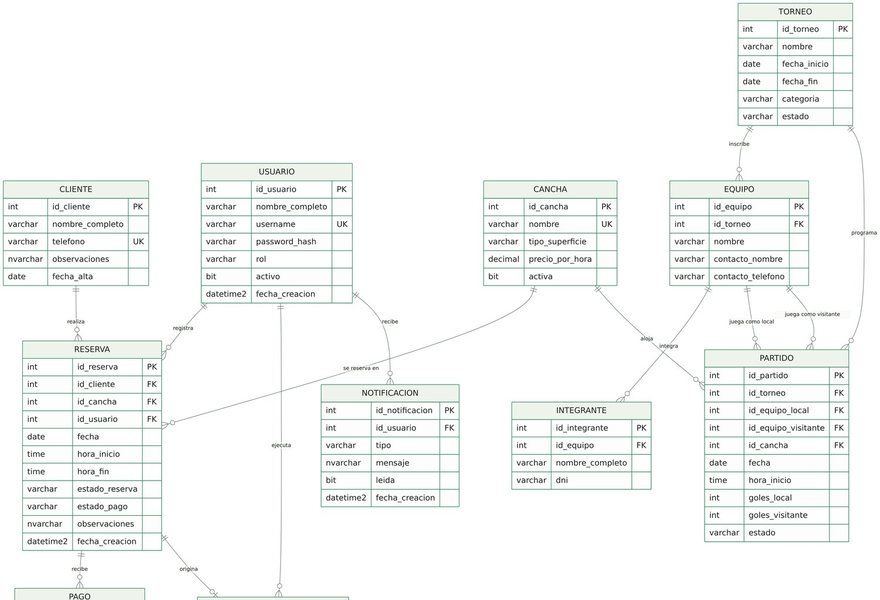
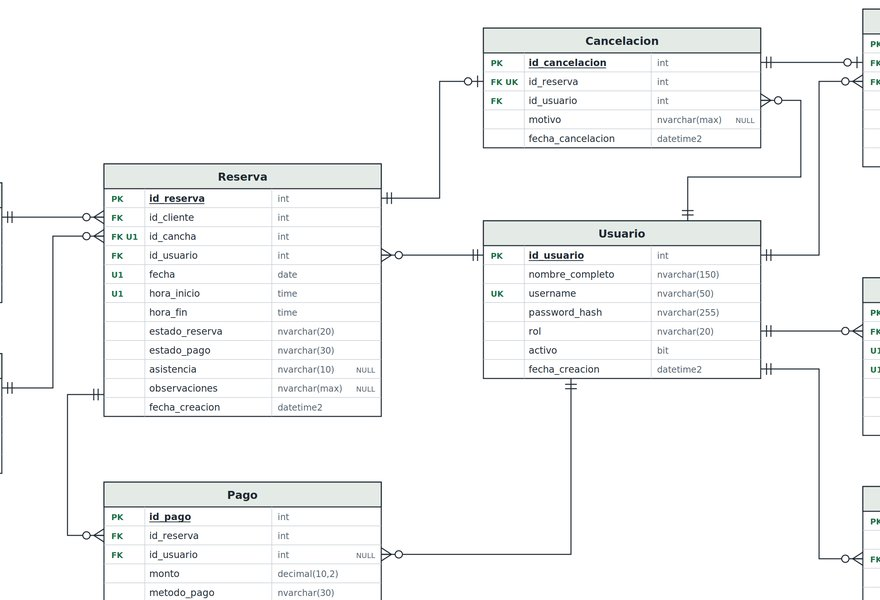
Diagramas de Sports Complex actualizados y CV corregido
- Diagramas nuevos generados desde el modelo real (14 tablas, auditoria y parametros)
- Cifras del proyecto al dia: 55 endpoints, 14 tablas, 54 pruebas, 18 servicios
- CV en espanol revisado: carrera en curso (2026), redaccion y datos actualizados

Claude-Session: https://claude.ai/code/session_013ZNZp2hZJEv5Z7bci25UH3

diff --git a/index.html b/index.html
@@ -323,7 +323,7 @@ try{var t=localStorage.getItem('tema');if(t&&t!=='sistema')document.documentElem
           <div class="ficha-cuerpo">
             <span class="tag tag-g">Sistema completo</span>
             <h3><a href="#proyecto">Sports Complex Admin</a></h3>
-            <p>48 endpoints REST, 12 tablas y 24 pruebas. La integridad de las reservas está garantizada en el motor de base de datos, no en el formulario.</p>
+            <p>55 endpoints REST, 14 tablas y 54 pruebas. La integridad de las reservas está garantizada en el motor de base de datos, no en el formulario.</p>
             <p class="ficha-stack">ASP.NET Core 8 · React · SQL Server</p>
           </div>
         </article>
@@ -382,10 +382,10 @@ try{var t=localStorage.getItem('tema');if(t&&t!=='sistema')document.documentElem
     </p>
 
     <div class="stats" style="margin-top:0;margin-bottom:44px">
-      <div class="stat"><div class="stat-n">~9.700</div><div class="stat-l">líneas de código</div></div>
-      <div class="stat"><div class="stat-n">48</div><div class="stat-l">endpoints REST</div></div>
-      <div class="stat"><div class="stat-n">12</div><div class="stat-l">tablas relacionales</div></div>
-      <div class="stat"><div class="stat-n">24</div><div class="stat-l">pruebas unitarias</div></div>
+      <div class="stat"><div class="stat-n">~11.700</div><div class="stat-l">líneas de código</div></div>
+      <div class="stat"><div class="stat-n">55</div><div class="stat-l">endpoints REST</div></div>
+      <div class="stat"><div class="stat-n">14</div><div class="stat-l">tablas relacionales</div></div>
+      <div class="stat"><div class="stat-n">54</div><div class="stat-l">pruebas unitarias</div></div>
     </div>
 
     <div class="split" style="margin-bottom:44px">
@@ -432,7 +432,7 @@ try{var t=localStorage.getItem('tema');if(t&&t!=='sistema')document.documentElem
         <span class="tag tag-i">Arquitectura</span>
         <h3>Lógica en servicios, no en controllers</h3>
         <p>
-          Los controllers solo validan la entrada y traducen DTOs. Las reglas viven en 16 servicios
+          Los controllers solo validan la entrada y traducen DTOs. Las reglas viven en 18 servicios
           de dominio, que son además los que están cubiertos por pruebas unitarias con base en memoria.
         </p>
       </article>
@@ -468,15 +468,15 @@ try{var t=localStorage.getItem('tema');if(t&&t!=='sistema')document.documentElem
       </div>
       <div class="layer">
         <div class="layer-name">API <small>ASP.NET Core 8</small></div>
-        <div class="layer-desc">12 controllers y 48 endpoints REST. Autenticación JWT Bearer, autorización por rol, CORS configurado por origen y documentación automática con Swagger.</div>
+        <div class="layer-desc">13 controllers y 55 endpoints REST. Autenticación JWT Bearer, autorización por rol, CORS configurado por origen y documentación automática con Swagger.</div>
       </div>
       <div class="layer">
-        <div class="layer-name">Dominio <small>16 servicios</small></div>
+        <div class="layer-name">Dominio <small>18 servicios</small></div>
         <div class="layer-desc">Disponibilidad, reservas, pagos, cancelaciones, devoluciones, torneos, partidos, estadísticas y reportes. Es donde viven las reglas del negocio.</div>
       </div>
       <div class="layer">
         <div class="layer-name">Datos <small>EF Core 8 · SQL Server</small></div>
-        <div class="layer-desc">12 entidades mapeadas, migraciones versionadas, índices y constraints declarados en el schema, y scripts de creación y carga inicial en el repositorio.</div>
+        <div class="layer-desc">14 entidades mapeadas (con auditoría automática de cada cambio), migraciones versionadas, índices y constraints declarados en el schema, y scripts de creación y carga inicial en el repositorio.</div>
       </div>
     </div>
   </div>
@@ -487,14 +487,14 @@ try{var t=localStorage.getItem('tema');if(t&&t!=='sistema')document.documentElem
     <p class="eyebrow">Documentación</p>
     <h2 class="sec-title">El sistema, documentado</h2>
     <p class="sec-intro">
-      Los diagramas están versionados como código fuente Mermaid junto al repositorio, no como
-      imágenes sueltas: se regeneran y evolucionan con el sistema.
+      Los diagramas se generan con código a partir del modelo real de la base de datos y se
+      verifican solos: ninguna línea se cruza y ninguna etiqueta queda ambigua. Se regeneran cada vez que cambia el sistema.
     </p>
     <div class="carrusel" data-carrusel>
       <div class="carrusel-pista" role="group" aria-label="Diagramas del sistema" tabindex="0">
 <figure class="shot">
         <a href="assets/diagrama-relacional.jpg" target="_blank" rel="noopener"><img src="assets/diagrama-relacional-thumb.jpg" width="880" height="600" alt="Diagrama relacional de la base de datos" loading="lazy"></a>
-        <figcaption><b>Diagrama relacional</b>12 tablas con claves, índices y restricciones<span class="zoom">Ver en tamaño completo →</span></figcaption>
+        <figcaption><b>Diagrama relacional</b>14 tablas con claves, índices y restricciones<span class="zoom">Ver en tamaño completo →</span></figcaption>
       </figure>
       <figure class="shot">
         <a href="assets/diagrama-der.jpg" target="_blank" rel="noopener"><img src="assets/diagrama-der-thumb.jpg" width="880" height="600" alt="Diagrama entidad-relación" loading="lazy"></a>
@@ -502,7 +502,7 @@ try{var t=localStorage.getItem('tema');if(t&&t!=='sistema')document.documentElem
       </figure>
       <figure class="shot">
         <a href="assets/diagrama-clases.jpg" target="_blank" rel="noopener"><img src="assets/diagrama-clases-thumb.jpg" width="880" height="600" alt="Diagrama de clases" loading="lazy"></a>
-        <figcaption><b>Diagrama de clases</b>Entidades, servicios y sus dependencias<span class="zoom">Ver en tamaño completo →</span></figcaption>
+        <figcaption><b>Diagrama de clases</b>Las 14 entidades del dominio y sus asociaciones<span class="zoom">Ver en tamaño completo →</span></figcaption>
       </figure>
       <figure class="shot">
         <a href="assets/diagrama-secuencia-reserva.jpg" target="_blank" rel="noopener"><img src="assets/diagrama-secuencia-reserva-thumb.jpg" width="880" height="600" alt="Diagrama de secuencia del alta de reserva" loading="lazy"></a>
@@ -776,7 +776,7 @@ make imagen &amp;&amp; make cluster &amp;&amp; make desplegar
     </div>
     <div class="stack-group">
       <h4>Análisis y diseño</h4>
-      <div class="chips"><span class="chip">UML</span><span class="chip">Casos de uso</span><span class="chip">Diagramas de secuencia</span><span class="chip">Mermaid</span><span class="chip">Planificación y Gantt</span></div>
+      <div class="chips"><span class="chip">UML</span><span class="chip">Casos de uso</span><span class="chip">Diagramas de secuencia</span><span class="chip">DER y DFD</span><span class="chip">Planificación y Gantt</span></div>
     </details>
   </div>
 </section>

diff --git a/assets/3d.js b/assets/3d.js
@@ -69,13 +69,13 @@
   /* ========================================================== 2. el teclado */
   const TECLAS = [
     { t:'q', x:0,   r:0, l:'C#',      c:'#8B5CF6', n:'C#',                 g:'Backend',
-      d:'El lenguaje del backend de Sports Complex Admin: 48 endpoints REST y 24 pruebas que corren en cada push.' },
+      d:'El lenguaje del backend de Sports Complex Admin: 55 endpoints REST y 54 pruebas que corren en cada push.' },
     { t:'w', x:1,   r:0, l:'.NET',    c:'#6D46D9', n:'ASP.NET Core 8',     g:'Backend',
       d:'La API, el control de acceso por rol con JWT y la capa de servicios donde vive la lógica de negocio.' },
     { t:'e', x:2,   r:0, l:'EF',      c:'#4F46E5', n:'Entity Framework Core', g:'Backend',
       d:'El mapeo relacional y las migraciones del esquema. El modelo de dominio se escribe una vez y la base lo sigue.' },
     { t:'r', x:3,   r:0, l:'SQL',     c:'#DC2626', n:'SQL Server',         g:'Datos',
-      d:'12 tablas. La regla de que dos reservas no se pisan vive acá, en el motor: un formulario se puede esquivar, una restricción no.' },
+      d:'14 tablas. La regla de que dos reservas no se pisan vive acá, en el motor: un formulario se puede esquivar, una restricción no.' },
     { t:'t', x:4,   r:0, l:'JWT',     c:'#DB2777', n:'JWT',                g:'Backend',
       d:'Autenticación por token y permisos resueltos por rol, verificados del lado del servidor en cada pedido.' },
 
@@ -88,7 +88,7 @@
     { t:'f', x:3.3, r:1, l:'CSS',     c:'#3B82F6', n:'CSS a mano',         g:'Frontend',
       d:'Diseño responsive escrito sin frameworks. Esta página incluida: el teclado que estás mirando son transformaciones 3D nativas.' },
     { t:'g', x:4.3, r:1, l:'test',    c:'#10B981', n:'xUnit y Vitest',     g:'Calidad',
-      d:'24 pruebas del lado del backend y pruebas de componentes en el frontend. Lo que no se prueba, no se sabe si funciona.' },
+      d:'54 pruebas del lado del backend y pruebas de componentes en el frontend. Lo que no se prueba, no se sabe si funciona.' },
 
     { t:'z', x:0.6, r:2, l:'Node',    c:'#16A34A', n:'Node.js',            g:'Herramientas propias',
       d:'Market Desk corre en Node sin una sola dependencia instalada: el servidor, el parseo y las métricas son código propio.' },
@@ -105,8 +105,8 @@
       d:'Vistas laterales, modales y pestaña de ajustes. Smart Atlas se integra con Smart Connections y, si no está, arma su propio índice.' },
     { t:' ', x:1.6, r:3, w:2.2, l:'0 deps',   c:'#334155', n:'Cero dependencias', g:'Decisión de diseño',
       d:'Un plugin de 29 kB con el álgebra lineal escrita a mano —k-means, PCA, proyección aleatoria— y un servidor Node que no instala nada. Menos superficie que mantener y nada que se rompa solo.' },
-    { t:'m', x:4.0, r:3, w:1.4, l:'Mermaid',  c:'#0D9488', n:'UML y Mermaid',  g:'Análisis y diseño',
-      d:'Casos de uso, diagramas de secuencia y modelo relacional, versionados como texto junto al código que describen.' },
+    { t:'m', x:4.0, r:3, w:1.4, l:'UML',  c:'#0D9488', n:'UML, DER y DFD',  g:'Análisis y diseño',
+      d:'Casos de uso, secuencias, DER, DFD y modelo relacional, generados con código desde el modelo real y verificados automáticamente.' },
   ];
 
   const placa = document.getElementById('kbd');
